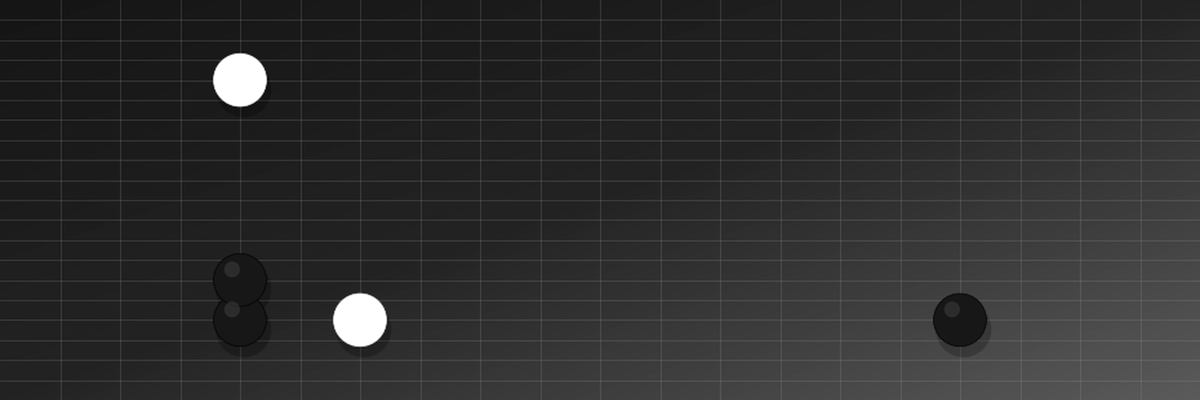
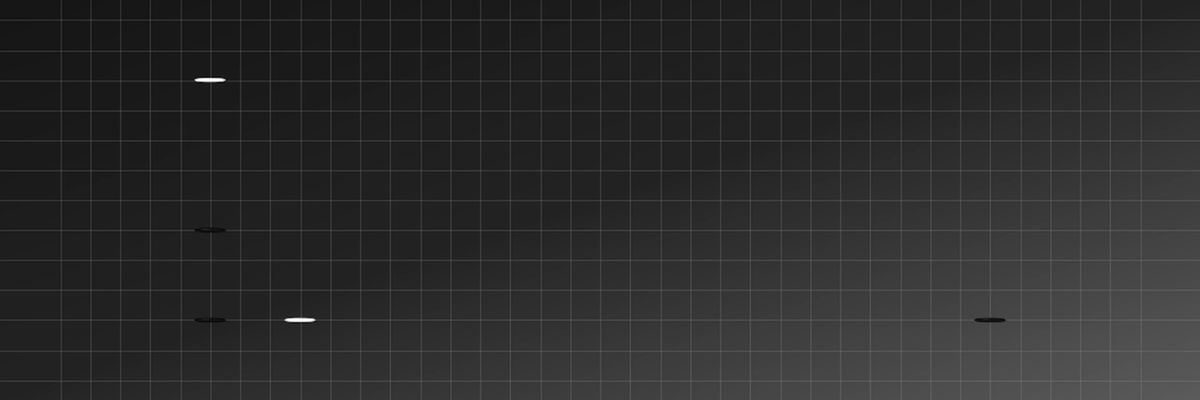
fix(blog): Fix hero image aspect ratio - stones now appear round

diff --git a/blog/scripts/generate_hero.py b/blog/scripts/generate_hero.py
@@ -113,8 +113,10 @@ def draw_stone(ax, grid_x, grid_y, color, n_vertical=37, n_horizontal=13):
     x = margin + (1 - 2*margin) * grid_x / (n_vertical - 1)
     y = margin + (1 - 2*margin) * grid_y / (n_horizontal - 1)
 
-    # Stone size - should look round
-    stone_radius = 0.028
+    # Stone size - to appear round in 3:1 image, height must be width/aspect
+    # Using width in normalized coords, height must be smaller
+    stone_width = 0.025  # Width in normalized x coords
+    stone_height = stone_width / aspect  # Height in normalized y coords (smaller to appear round)
 
     # Main stone body
     if color == 'black':
@@ -128,15 +130,15 @@ def draw_stone(ax, grid_x, grid_y, color, n_vertical=37, n_horizontal=13):
 
     # Stone shadow (subtle)
     shadow = patches.Ellipse(
-        (x + 0.003, y - 0.008 * aspect),
-        stone_radius * 2.1, stone_radius * 2.1 * aspect,
+        (x + 0.002, y - 0.003),
+        stone_width * 1.05, stone_height * 1.05,
         facecolor='#000000', alpha=0.2, zorder=2
     )
     ax.add_patch(shadow)
 
     # Main stone
     stone = patches.Ellipse(
-        (x, y), stone_radius * 2, stone_radius * 2 * aspect,
+        (x, y), stone_width, stone_height,
         facecolor=base_color, edgecolor=edge_color,
         linewidth=0.5, zorder=3
     )
@@ -144,8 +146,8 @@ def draw_stone(ax, grid_x, grid_y, color, n_vertical=37, n_horizontal=13):
 
     # Highlight for 3D effect
     highlight = patches.Ellipse(
-        (x - stone_radius * 0.3, y + stone_radius * 0.4 * aspect),
-        stone_radius * 0.6, stone_radius * 0.6 * aspect,
+        (x - stone_width * 0.15, y + stone_height * 0.2),
+        stone_width * 0.3, stone_height * 0.3,
         facecolor=highlight_color, alpha=0.6, zorder=4
     )
     ax.add_patch(highlight)
